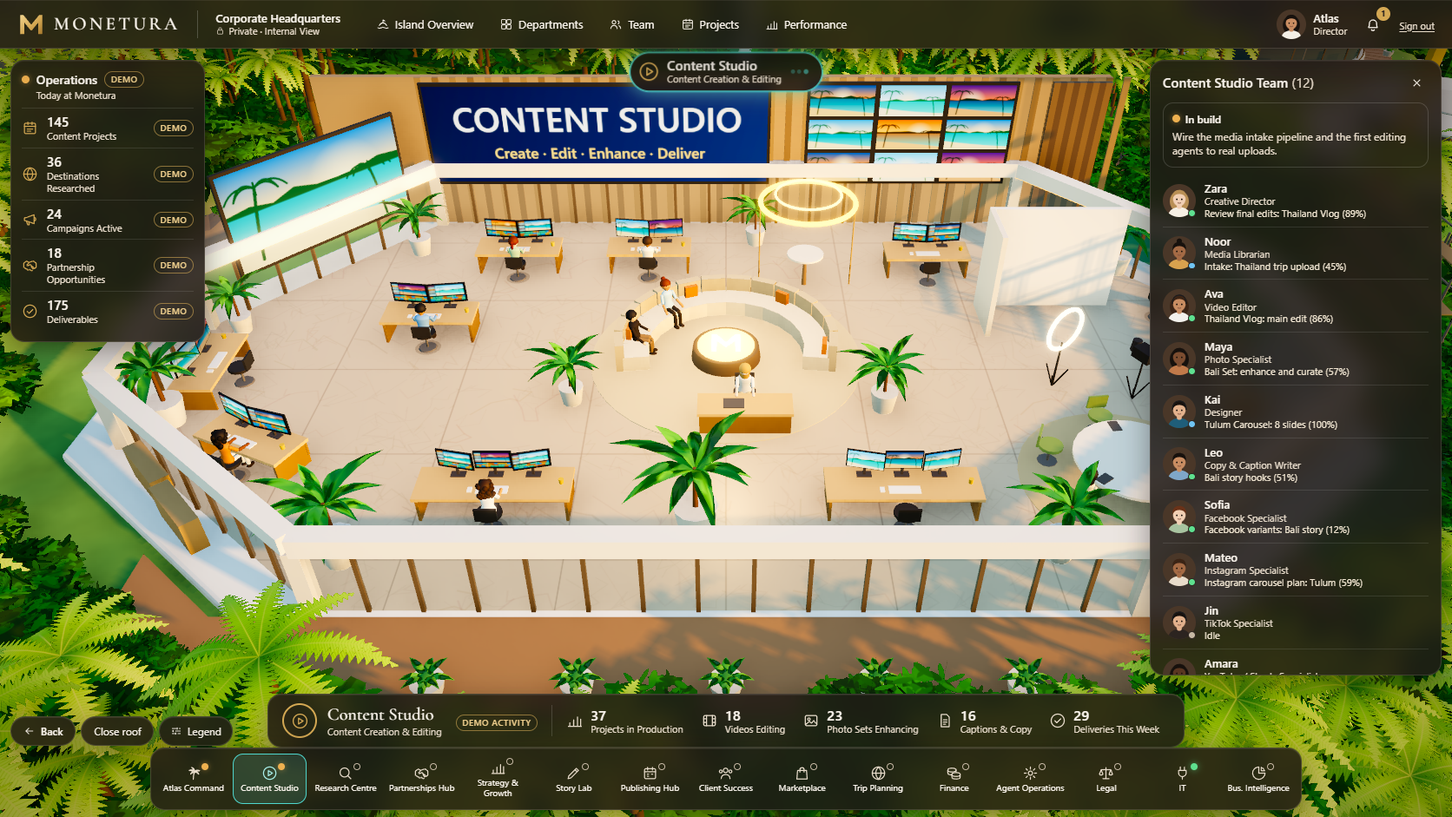
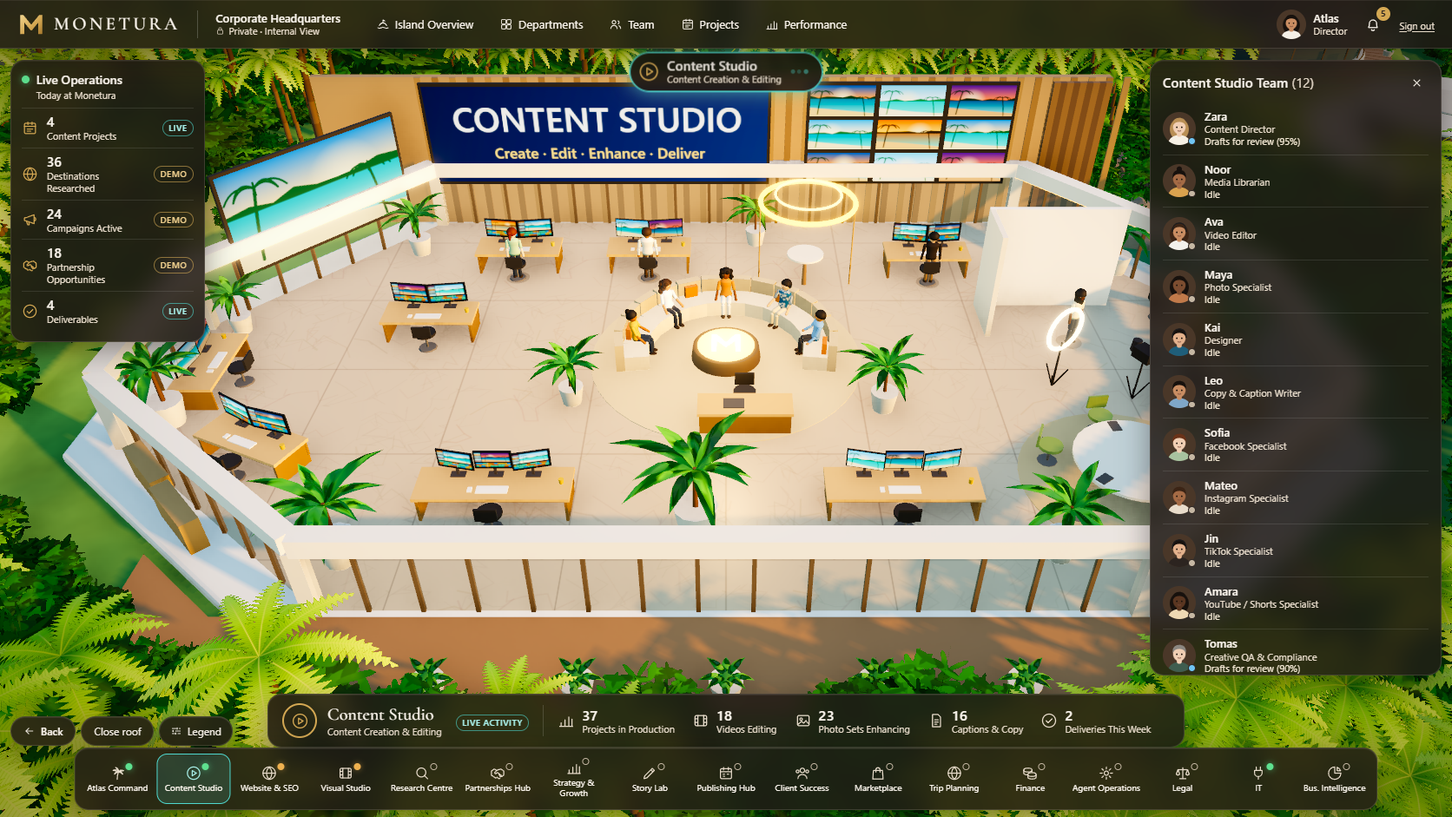
feat(hq): full Monetura org: Website & SEO, Visual Studio, Brand Guardian; Content Studio live
17 divisions. New round buildings placed on free land (checked by
scripts/check-placement.ts), web/visual interior specs in the existing style,
Script Writer in Story Lab. Content Studio is live with real events only.
Fix interiors staying mounted when deselected before the roof lifts.
Add scripts/check-ingest.ts; verify.ts covers 17 buildings.

diff --git a/apps/hq/src/registry.ts b/apps/hq/src/registry.ts
@@ -86,12 +86,13 @@ export const DIVISIONS: RegistryDivision[] = [
     icon: "palm",
     status: "live",
     description: `${ORCHESTRATOR_NAME} runs the launch plan, sets priorities, writes build prompts, routes work to departments and surfaces approvals.`,
-    nextUp: "Design Content Studio with Darryl and add it as Atlas's first department agent.",
+    nextUp: "Run Content Studio's weekly cycle and the two-gate review, then activate Strategy & Growth.",
     building: { x: 0, z: -96, elevation: 37, rotation: 0, scale: 1, footprint: "tiered", interior: "command" },
     fullyStaffed: true,
     agents: [
       agent("atlas", ORCHESTRATOR_NAME, "Director", "Director: runs the launch plan, daily briefing, sprint prompts and prospect conversation prep.", "Claude Opus", ["Company brain", "Task list", "Sprint prompts", "HQ event tool"], look(SKIN.c, HAIR.black, "long", "#f4efe6", "#3d4a5c", { feminine: true }), 0, "working"),
       agent("atlas-ops", "Remy", "Workflow Coordinator", "Keeps queues moving between departments and flags stuck handoffs.", "Claude Sonnet", ["Queue monitor", "Event log"], look(SKIN.b, HAIR.brown, "short", "#6f8fa8", "#e8dccb"), 1),
+      agent("brand-guardian", "Juno", "Brand Guardian", "Final brand gate for anything public from any division, before it reaches Darryl: voice, visual style, no earnings or tax claims, no fake people or numbers, disclosure, AI never shown as a real member or trip.", "Claude Sonnet", ["Brand voice guide", "Visual style guide", "Review queue"], look(SKIN.d, HAIR.black, "bun", "#e9dcc3", "#4a3728", { feminine: true }), 2, "idle"),
     ],
   },
   {
@@ -99,24 +100,56 @@ export const DIVISIONS: RegistryDivision[] = [
     name: "Content Studio",
     subtitle: "Content Creation & Editing",
     icon: "play",
-    status: "building",
-    description: "Turning travel experiences into high-performing content: intake, edit, design, copy, channel variants and creative QA.",
-    nextUp: "Wire the media intake pipeline and the first editing agents to real uploads.",
+    status: "live",
+    description: "Turns Monetura's brand, quote bank and Darryl's real footage into on-brand posts for every account. Drafts everything; schedules only what Darryl approves.",
+    nextUp: "Opening grid and the week of Nov 16 are waiting for Darryl's review; scheduling goes live once bundle.social is connected.",
     building: { x: 0, z: 62, elevation: 11, rotation: 0, scale: 1.3, footprint: "angular", interior: "studio" },
     fullyStaffed: true,
     agents: [
-      agent("creative-director", "Zara", "Creative Director", "Briefing, brand voice, task routing, quality gates and production priorities.", "Claude Opus", ["Brief builder", "Brand voice guide", "Review queue"], look(SKIN.a, HAIR.blonde, "long", "#f6f0e4", "#c9b48f", { feminine: true }), 0, "meeting"),
-      agent("media-librarian", "Noor", "Media Librarian", "Intake and tagging: location and subject tags, duplicates, metadata and permissions.", "Claude Haiku", ["S3 media store", "Vision tagger", "Rights checklist"], look(SKIN.d, HAIR.black, "bun", "#d9a24e", "#2f3a48", { feminine: true }), 1, "working"),
-      agent("video-editor", "Ava", "Video Editor", "Reels, shorts and travel montages: captions, versions and aspect ratios.", "Seedance", ["Timeline editor", "Subtitle engine", "Seedance"], look(SKIN.c, HAIR.brown, "curly", "#f3f1ec", "#27303c", { feminine: true, headphones: true }), 2, "working"),
-      agent("photo-specialist", "Maya", "Photo Specialist", "Selects, enhancement and curation of trip photo sets.", "OpenAI", ["Image enhancer", "Selects board"], look(SKIN.e, HAIR.black, "curly", "#c17a4a", "#efe6d6", { feminine: true }), 3, "working"),
-      agent("designer", "Kai", "Designer", "Thumbnails, carousels, branded layouts and landing page imagery.", "OpenAI", ["Layout templates", "Image generator"], look(SKIN.b, HAIR.black, "short", "#1f5e7a", "#d8c7a8", { print: "#f1e6cf", headphones: true }), 4, "working"),
-      agent("copywriter", "Leo", "Copy & Caption Writer", "Captions, hooks, scripts and travel stories in the Monetura voice.", "Claude Sonnet", ["Voice guide", "Caption library"], look(SKIN.c, HAIR.black, "short", "#7fa7c9", "#3a3a3a"), 5, "working"),
+      agent("creative-director", "Zara", "Content Director", "Plans the weekly calendar across all accounts, assigns the specialists, enforces the brand voice and hands finished batches to Atlas.", "Claude Sonnet", ["Brief builder", "Brand voice guide", "Review queue"], look(SKIN.a, HAIR.blonde, "long", "#f6f0e4", "#c9b48f", { feminine: true }), 0, "idle"),
+      agent("media-librarian", "Noor", "Media Librarian", "Planned: Intake and tagging: location and subject tags, duplicates, metadata and permissions.", "Claude Haiku", ["S3 media store", "Vision tagger", "Rights checklist"], look(SKIN.d, HAIR.black, "bun", "#d9a24e", "#2f3a48", { feminine: true }), 1, "idle"),
+      agent("video-editor", "Ava", "Video Editor", "Planned: edits real footage into reels, shorts and travel montages: captions, versions and aspect ratios.", "Seedance", ["Timeline editor", "Subtitle engine", "Seedance"], look(SKIN.c, HAIR.brown, "curly", "#f3f1ec", "#27303c", { feminine: true, headphones: true }), 2, "idle"),
+      agent("photo-specialist", "Maya", "Photo Specialist", "Planned: Selects, enhancement and curation of trip photo sets.", "OpenAI", ["Image enhancer", "Selects board"], look(SKIN.e, HAIR.black, "curly", "#c17a4a", "#efe6d6", { feminine: true }), 3, "idle"),
+      agent("designer", "Kai", "Designer", "On-brand quote cards, Story and Reel covers rendered from the brand template.", "Claude Sonnet", ["Layout templates", "Image generator"], look(SKIN.b, HAIR.black, "short", "#1f5e7a", "#d8c7a8", { print: "#f1e6cf", headphones: true }), 4, "idle"),
+      agent("copywriter", "Leo", "Copy & Caption Writer", "Planned: Captions, hooks, scripts and travel stories in the Monetura voice.", "Claude Sonnet", ["Voice guide", "Caption library"], look(SKIN.c, HAIR.black, "short", "#7fa7c9", "#3a3a3a"), 5, "idle"),
       agent("facebook-specialist", "Sofia", "Facebook Specialist", "Long-form posts, community framing and Facebook creative variants.", "Claude Sonnet", ["Channel format guide", "bundle.social drafts"], look(SKIN.a, HAIR.auburn, "ponytail", "#a8c3a0", "#2c3440", { feminine: true }), 6, "idle"),
-      agent("instagram-specialist", "Mateo", "Instagram Specialist", "Reels, carousels, hashtags and engagement strategy.", "Claude Sonnet", ["Channel format guide", "Hashtag research"], look(SKIN.d, HAIR.brown, "short", "#e8dccb", "#4a3728"), 7, "working"),
-      agent("tiktok-specialist", "Jin", "TikTok Specialist", "Short-form trends, hooks and casual voice variants.", "Claude Haiku", ["Trend watcher", "Hook library"], look(SKIN.b, HAIR.black, "short", "#2c2420", "#8b6e52", { headphones: true }), 8, "working"),
-      agent("youtube-specialist", "Amara", "YouTube / Shorts Specialist", "Long-form structure, Shorts cut-downs, titles and descriptions. Presents to camera at the ring light.", "ElevenLabs", ["ElevenLabs voice", "Thumbnail tests"], look(SKIN.f, HAIR.black, "long", "#efd9b4", "#2d3945", { feminine: true }), 9, "meeting"),
-      agent("creative-qa", "Tomas", "Creative QA & Compliance", "Checks quality, factual travel claims, rights and consent, platform rules.", "Claude Sonnet", ["Compliance checklist", "Claim checker"], look(SKIN.a, HAIR.grey, "short", "#3f5d4f", "#d9cbb2"), 10, "blocked"),
-      agent("publishing-coordinator", "Elena", "Publishing Coordinator", "Hands approved assets to the scheduling and distribution team.", "Claude Haiku", ["Publishing queue", "Calendar"], look(SKIN.c, HAIR.auburn, "bun", "#b9d3d8", "#3b3027", { feminine: true }), 11, "idle"),
+      agent("instagram-specialist", "Mateo", "Instagram Specialist", "Reels, carousels, hashtags and engagement strategy.", "Claude Sonnet", ["Channel format guide", "Hashtag research"], look(SKIN.d, HAIR.brown, "short", "#e8dccb", "#4a3728"), 7, "idle"),
+      agent("tiktok-specialist", "Jin", "TikTok Specialist", "Short-form trends, hooks and casual voice variants.", "Claude Sonnet", ["Trend watcher", "Hook library"], look(SKIN.b, HAIR.black, "short", "#2c2420", "#8b6e52", { headphones: true }), 8, "idle"),
+      agent("youtube-specialist", "Amara", "YouTube / Shorts Specialist", "Long-form structure, Shorts cut-downs, titles and descriptions.", "Claude Sonnet", ["ElevenLabs voice", "Thumbnail tests"], look(SKIN.f, HAIR.black, "long", "#efd9b4", "#2d3945", { feminine: true }), 9, "idle"),
+      agent("creative-qa", "Tomas", "Creative QA & Compliance", "First check on every social draft: voice, claims, disclosure, handles, platform limits.", "Claude Sonnet", ["Compliance checklist", "Claim checker"], look(SKIN.a, HAIR.grey, "short", "#3f5d4f", "#d9cbb2"), 10, "idle"),
+      agent("publishing-coordinator", "Elena", "Publishing Coordinator", "Planned: Hands approved assets to the scheduling and distribution team.", "Claude Haiku", ["Publishing queue", "Calendar"], look(SKIN.c, HAIR.auburn, "bun", "#b9d3d8", "#3b3027", { feminine: true }), 11, "idle"),
+    ],
+  },
+  {
+    id: "website-seo",
+    name: "Website & SEO",
+    subtitle: "Site, Search & Analytics",
+    icon: "globe",
+    status: "building",
+    description: "Owns monetura.com as a whole: content freshness, SEO, landing pages (waitlist first), publishing Story Lab's blogs, and analytics. Never codes; hands sprint prompts to IT & Integrations.",
+    nextUp: "Fix the live site copy that predates the Nov 6 to 8 decisions, then launch the waitlist landing page.",
+    building: { x: 130, z: -80, elevation: 13, rotation: -0.25, scale: 1, footprint: "round", interior: "web" },
+    agents: [
+      agent("website-lead", "Kira", "Website Lead", "Owns monetura.com end to end and routes site work.", "Claude Sonnet", ["Site audit", "Page briefs", "Sprint prompts"], look(SKIN.e, HAIR.black, "ponytail", "#d8c4a2", "#2f3a48", { feminine: true }), 0),
+      agent("seo-specialist", "Tariq", "SEO Specialist", "Keywords for the member profile, titles, meta, structure.", "Claude Sonnet", ["Site audit", "Keyword plan"], look(SKIN.d, HAIR.black, "short", "#8fa9b8", "#e0d2bb"), 1),
+      agent("web-content-editor", "Elodie", "Web Content Editor", "Keeps every page true to the brand; prepares blogs for publishing.", "Claude Sonnet", ["Voice guide", "Page briefs"], look(SKIN.a, HAIR.auburn, "bun", "#efe2cd", "#3c4752", { feminine: true }), 2),
+      agent("analytics-analyst", "Ben", "Analytics Analyst", "Visitors, sources and waitlist signups.", "Claude Haiku", ["Analytics", "Report builder"], look(SKIN.b, HAIR.brown, "short", "#a3b89a", "#3a3a3a"), 3),
+    ],
+  },
+  {
+    id: "visual-studio",
+    name: "Visual Studio",
+    subtitle: "Cinematic Images & Reels",
+    icon: "film",
+    status: "building",
+    description: "Cinematic AI images and short video for the website, social and reels, in one brand look. AI sets the mood; real footage carries the truth.",
+    nextUp: "Connect fal.ai and ElevenLabs, then make the first approved quote reel.",
+    building: { x: -68, z: -100, elevation: 22, rotation: 0.15, scale: 1, footprint: "round", interior: "visual" },
+    agents: [
+      agent("visual-studio-lead", "Selene", "Visual Studio Lead", "Guards the style guide and approves every prompt before spend.", "Claude Sonnet", ["Style guide", "Spend log"], look(SKIN.f, HAIR.black, "long", "#d4a853", "#2c2420", { feminine: true }), 0),
+      agent("image-producer", "Rafa", "Image Producer", "Cinematic stills in the brand look.", "fal.ai", ["Prompt library", "fal.ai"], look(SKIN.c, HAIR.black, "curly", "#c9d6c1", "#4a3728"), 1),
+      agent("video-producer", "Ilya", "Video Producer", "Seedance clips: one camera move per beat, calm pacing.", "Seedance", ["Seedance", "Prompt library"], look(SKIN.a, HAIR.blonde, "short", "#2c3440", "#d8c7a8", { headphones: true }), 2),
+      agent("reel-editor", "Noa", "Reel Editor", "Assembles 9:16 quote reels: clips, quote text, voice, music, end card.", "ElevenLabs", ["Reel engine", "ElevenLabs voice", "ffmpeg"], look(SKIN.d, HAIR.brown, "curly", "#f0dcc0", "#35404d", { feminine: true, headphones: true }), 3),
     ],
   },
   {
@@ -179,6 +212,7 @@ export const DIVISIONS: RegistryDivision[] = [
       agent("campaign-writer", "Theo", "Campaign Writer", "Campaign variations and email sequences.", "Claude Sonnet", ["Voice guide", "Resend drafts"], look(SKIN.b, HAIR.brown, "short", "#c7a77a", "#2f3a48"), 0),
       agent("blog-storyteller", "Aisha", "Blog & Long-Form Storyteller", "SEO blog posts and magazine-style travel stories.", "Claude Opus", ["Voice guide", "Web research"], look(SKIN.f, HAIR.black, "bun", "#efe2cd", "#3f5d4f", { feminine: true }), 1),
       agent("editorial-planner", "Lucas", "Editorial Planner", "Editorial calendar and creative briefs.", "Claude Haiku", ["Calendar", "Brief builder"], look(SKIN.a, HAIR.auburn, "short", "#9db7a8", "#3a3a3a"), 2),
+      agent("script-writer", "Wren", "Script Writer", "Teaser, reel and webinar scripts in the Monetura voice.", "Claude Sonnet", ["Voice guide", "Script templates"], look(SKIN.c, HAIR.auburn, "long", "#e4cfa9", "#2f3a48", { feminine: true }), 3),
     ],
   },
   {

diff --git a/apps/hq/scripts/check-placement.ts b/apps/hq/scripts/check-placement.ts
@@ -1,0 +1,65 @@
+import { ownerWorld } from "../src/server/projection";
+import { buildWorld, buildingRadius, HELIPAD, WATERFALLS, MARINA } from "../src/world/world";
+
+/**
+ * Placement check for new buildings: terrace clearance from every building, the
+ * helipad, waterfalls and docks; natural terrain is land; inside the camera bounds;
+ * no foreign path crosses the terrace and its own path avoids other terraces.
+ * Usage: pnpm exec tsx scripts/check-placement.ts [division-id ...]
+ */
+const NEW = process.argv.slice(2).length > 0 ? process.argv.slice(2) : ["website-seo", "visual-studio"];
+const all = ownerWorld().divisions;
+const without = all.filter((d) => !NEW.includes(d.id));
+const base = buildWorld(without, 340);
+const full = buildWorld(all, 340);
+
+let ok = true;
+for (const id of NEW) {
+  const d = all.find((x) => x.id === id)!;
+  const b = d.building;
+  const r = buildingRadius(b) + 6;
+  console.log(`\n== ${id} at (${b.x}, ${b.z}) r=${r}`);
+  // Camera boundary box from CameraRig: x [-300,300], z [-320,200].
+  const inBox = b.x - r > -300 && b.x + r < 300 && b.z - r > -320 && b.z + r < 200;
+  console.log(`inside camera bounds: ${inBox}`);
+  ok &&= inBox;
+  // Natural terrain under the footprint (before its own terrace).
+  const hs: number[] = [];
+  for (let a = 0; a < 16; a++) for (const rr of [0, r * 0.5, r, r + 10]) hs.push(base.sample(b.x + Math.cos(a) * rr, b.z + Math.sin(a) * rr));
+  const min = Math.min(...hs), max = Math.max(...hs), mean = hs.reduce((s, v) => s + v, 0) / hs.length;
+  console.log(`natural terrain: min ${min.toFixed(1)} max ${max.toFixed(1)} mean ${mean.toFixed(1)} (elevation set ${b.elevation})`);
+  ok &&= min > 2;
+  // Other buildings and the helipad.
+  const others = all.filter((o) => o.id !== id).map((o) => ({ id: o.id, x: o.building.x, z: o.building.z, r: buildingRadius(o.building) + 6 }));
+  others.push({ id: "helipad", x: HELIPAD.x, z: HELIPAD.z, r: HELIPAD.rx });
+  const gaps = others.map((o) => ({ id: o.id, gap: Math.hypot(o.x - b.x, o.z - b.z) - o.r - r })).sort((a, c) => a.gap - c.gap);
+  console.log(`nearest buildings (terrace gap): ${gaps.slice(0, 3).map((g) => `${g.id} ${g.gap.toFixed(1)}`).join(", ")}`);
+  ok &&= (gaps[0]?.gap ?? 0) > 6;
+  // Waterfalls and marina docks.
+  const wf = Math.min(...WATERFALLS.map((f) => Math.hypot(f.topX - b.x, f.topZ - b.z) - r));
+  const dock = Math.min(...MARINA.docks.map((k) => Math.hypot(k.x - b.x, k.z - b.z) - r));
+  console.log(`waterfall gap ${wf.toFixed(1)}, marina dock gap ${dock.toFixed(1)}`);
+  ok &&= wf > 12 && dock > 12;
+  // Paths that don't belong to this building must stay off its terrace.
+  let pathGap = Infinity;
+  for (const e of full.edges) {
+    if (e.a === id || e.b === id) continue;
+    for (const p of e.points) pathGap = Math.min(pathGap, Math.hypot(p.x - b.x, p.z - b.z) - r);
+  }
+  console.log(`closest foreign path to terrace edge: ${pathGap.toFixed(1)}`);
+  ok &&= pathGap > 3;
+  // Its own path must not cut through another building.
+  let ownCut = Infinity;
+  let cutBy = "";
+  for (const e of full.edges) {
+    if (e.a !== id && e.b !== id) continue;
+    for (const p of e.points) for (const o of others) {
+      const g = Math.hypot(p.x - o.x, p.z - o.z) - o.r;
+      if (g < ownCut) { ownCut = g; cutBy = o.id; }
+    }
+    console.log(`own path ${e.a} -> ${e.b}`);
+  }
+  console.log(`own path clearance from other terraces: ${ownCut.toFixed(1)} (${cutBy})`);
+  ok &&= ownCut > 0;
+}
+console.log(ok ? "\nPLACEMENT OK" : "\nPLACEMENT PROBLEM");

diff --git a/apps/hq/scripts/verify.ts b/apps/hq/scripts/verify.ts
@@ -168,7 +168,7 @@ async function main() {
 
   // Every building: fly in, roof lifts, Escape restores.
   const names = await page.getByRole("navigation", { name: "Departments" }).getByRole("button").evaluateAll((els) => els.map((e) => e.getAttribute("aria-label") ?? ""));
-  check("department bar lists every division", names.length === 15, `${names.length}`);
+  check("department bar lists every division", names.length === 17, `${names.length}`);
   for (const name of names) {
     await page.getByRole("navigation", { name: "Departments" }).getByRole("button", { name }).click();
     await wait(1100);
@@ -191,13 +191,21 @@ async function main() {
     });
   const before = await snapshot();
   check("Content Studio is fully staffed on screen", before.length === 12, `${before.length} figures: ${before.map((b) => b.id).join(", ")}`);
+
+  // Walking needs status changes. Content Studio is live (real events only, no demo),
+  // so watch a building division whose labelled demo activity still runs.
+  await page.keyboard.press("Escape");
+  await wait(1500);
+  await page.getByRole("navigation", { name: "Departments" }).getByRole("button", { name: /^Visual Studio/ }).click();
+  await wait(5000);
+  const walkBefore = await snapshot();
   let moved = 0;
   const seen = new Set<string>();
-  for (let i = 0; i < 16 && moved === 0; i++) {
+  for (let i = 0; i < 36 && moved === 0; i++) {
     await wait(2500);
     const now = await snapshot();
     for (const p of now) {
-      const old = before.find((b) => b.id === p.id);
+      const old = walkBefore.find((b) => b.id === p.id);
       if (old && Math.hypot(p.x - old.x, p.z - old.z) > 1) {
         moved++;
         seen.add(p.id);
@@ -207,6 +215,10 @@ async function main() {
   check("characters walk between spots when status changes", moved > 0, [...seen].join(", "));
   const statuses = new Set(Object.values((await ownerFeed(page)).agents).map((a) => a.status));
   check("agents show more than one status", statuses.size > 1, [...statuses].join(", "));
+  await page.keyboard.press("Escape");
+  await wait(1500);
+  await page.getByRole("navigation", { name: "Departments" }).getByRole("button", { name: /^Content Studio/ }).click();
+  await wait(3000);
 
   // Agent card.
   await page.getByRole("complementary", { name: /Content Studio team/ }).getByRole("button", { name: /Ava/ }).click();

diff --git a/apps/hq/scripts/check-ingest.ts b/apps/hq/scripts/check-ingest.ts
@@ -1,0 +1,57 @@
+/**
+ * Ingest allowlist check: one new agent per new division is accepted, and an unknown
+ * agent id (and an agent posted under the wrong division) is still rejected.
+ * Writes real rows, so run it against a server started WITHOUT DATABASE_URL (the
+ * in-memory store), never against production:
+ *   DATABASE_URL= pnpm exec next start --port 3013
+ *   HQ_BASE_URL=http://localhost:3013 pnpm exec tsx scripts/check-ingest.ts
+ * Reads HQ_INGEST_TOKEN from .env.local and never prints it.
+ */
+import { resolve } from "node:path";
+import dotenv from "dotenv";
+
+dotenv.config({ path: resolve(".env.local"), quiet: true });
+
+const BASE = process.env["HQ_BASE_URL"] ?? "http://localhost:3013";
+const TOKEN = process.env["HQ_INGEST_TOKEN"] ?? "";
+let failures = 0;
+
+async function post(agentId: string, divisionId: string): Promise<number> {
+  const r = await fetch(`${BASE}/api/hq/events/ingest`, {
+    method: "POST",
+    headers: { "Content-Type": "application/json", Authorization: `Bearer ${TOKEN}` },
+    body: JSON.stringify({
+      agentId,
+      divisionId,
+      taskId: `ingest-check-${agentId}`,
+      taskTitle: "Ingest allowlist check",
+      eventType: "task_started",
+      progress: 0,
+    }),
+  });
+  return r.status;
+}
+
+function check(name: string, ok: boolean, detail: string) {
+  console.log(`${ok ? "PASS" : "FAIL"}  ${name}  (${detail})`);
+  if (!ok) failures++;
+}
+
+async function main() {
+  if (TOKEN.length < 32) throw new Error("HQ_INGEST_TOKEN missing from .env.local");
+  const cases: [string, string, number][] = [
+    ["brand-guardian", "atlas-command", 201],
+    ["website-lead", "website-seo", 201],
+    ["visual-studio-lead", "visual-studio", 201],
+    ["script-writer", "story-lab", 201],
+    ["not-a-real-agent", "website-seo", 400],
+    ["reel-editor", "website-seo", 400],
+  ];
+  for (const [agent, division, want] of cases) {
+    const status = await post(agent, division);
+    check(`${agent} @ ${division} -> ${want}`, status === want, `status ${status}`);
+  }
+  process.exit(failures > 0 ? 1 : 0);
+}
+
+void main();

diff --git a/apps/hq/src/server/demo.ts b/apps/hq/src/server/demo.ts
@@ -70,6 +70,10 @@ const TASKS: Record<string, Template[]> = {
   "publishing-coordinator": [
     { title: "Schedule brief: Thailand week", stage: "Publishing", output: "Thailand schedule brief", handoffTo: "publishing-hub", needsApproval: true },
   ],
+  "website-lead": [{ title: "Page brief: waitlist landing", stage: "Production", output: "Waitlist page brief", handoffTo: "it-integrations", needsApproval: true }],
+  "seo-specialist": [{ title: "Title and meta review", stage: "Research", output: "Title and meta notes" }],
+  "visual-studio-lead": [{ title: "Style check: quote reel prompts", stage: "Review & approval", output: "Prompt set approved", needsApproval: true }],
+  "image-producer": [{ title: "Golden-hour stills, test set", stage: "Production", output: "Stills test set", handoffTo: "content-studio" }],
   atlas: [{ title: "Route new trip upload", stage: "Intake", output: "Workflow opened", handoffTo: "content-studio" }],
   "atlas-ops": [{ title: "Queue check across departments", stage: "Operations", output: "Queue report" }],
   "platform-builder": [{ title: "HQ platform release", stage: "Build", output: "HQ release notes" }],

diff --git a/apps/hq/src/scene/interiors.ts b/apps/hq/src/scene/interiors.ts
@@ -433,6 +433,28 @@ const INTERIOR_SPECS: Record<Exclude<InteriorKind, "studio">, RoundSpec> = {
       { texture: () => mapTexture(), w: 9, h: 5 },
     ],
   },
+  web: {
+    title: "Website & SEO",
+    sub: "Site, Search & Analytics",
+    desks: 4,
+    monitors: 2,
+    deskTexture: (i) => chartTexture(i),
+    wall: [
+      { texture: () => listBoardTexture("site-pages", "monetura.com", ["Home", "Our story", "Membership", "Waitlist", "Blog"], "#d4a853"), w: 11, h: 6.2 },
+      { texture: () => chartTexture(2), w: 10, h: 5.6 },
+    ],
+  },
+  visual: {
+    title: "Visual Studio",
+    sub: "Cinematic Images & Reels",
+    desks: 4,
+    monitors: 2,
+    deskTexture: (i) => travelTexture(i + 2),
+    wall: [
+      { texture: () => storyboardTexture(), w: 13, h: 5.6 },
+      { texture: () => travelTexture(4), w: 9, h: 5 },
+    ],
+  },
   office: {
     title: "Internal",
     sub: "Headquarters Operations",

diff --git a/apps/hq/src/config/counters.ts b/apps/hq/src/config/counters.ts
@@ -25,6 +25,8 @@ export const DIVISION_STATS: Record<string, DivisionStatConfig[]> = {
     { id: "captions", label: "Captions & Copy", icon: "doc", match: "progress", demoBaseline: 7 },
     { id: "deliveries", label: "Deliveries This Week", icon: "check", match: "completed", demoBaseline: 20 },
   ],
+  "website-seo": generic("Pages in Review", "Briefs Drafting", "Pages Updated"),
+  "visual-studio": generic("Prompts in Review", "Clips Rendering", "Assets Approved"),
   "research-centre": generic("Destinations in Queue", "Briefs Drafting", "Sources Verified"),
   "partnerships-hub": generic("Prospects", "Outreach Prepared", "Offers Verified"),
   "story-lab": generic("Briefs Open", "Scripts Drafting", "Stories Approved"),

diff --git a/apps/hq/src/scene/Building.tsx b/apps/hq/src/scene/Building.tsx
@@ -132,6 +132,9 @@ export function Building({ division, shadows }: Props) {
   useEffect(() => {
     // Interiors mount before the lift starts so nothing pops in.
     if (isOpen || isSelected) setInteriorMounted(true);
+    // Deselected before the roof ever lifted (e.g. Escape inside the roof delay):
+    // the lift animation never runs, so its p === 0 unmount below never fires.
+    else if (progress.current === 0) setInteriorMounted(false);
   }, [isOpen, isSelected]);
 
   useFrame((_, delta) => {

diff --git a/apps/hq/scripts/screenshots.ts b/apps/hq/scripts/screenshots.ts
@@ -123,6 +123,8 @@ async function main() {
     ["20-agent-operations", /^Agent Operations/],
     ["21-legal-compliance", /^Legal/],
     ["22-business-intelligence", /^Business Intelligence/],
+    ["23-website-seo", /^Website & SEO/],
+    ["24-visual-studio", /^Visual Studio/],
   ] as const) {
     if (!want(file)) continue;
     await focus(re);

diff --git a/apps/hq/src/types.ts b/apps/hq/src/types.ts
@@ -15,6 +15,8 @@ export type InteriorKind =
   | "support"
   | "marketplace"
   | "trip"
+  | "web"
+  | "visual"
   | "office";
 
 export type IconName =

diff --git a/HQ-DECISIONS.md b/HQ-DECISIONS.md
@@ -112,6 +112,19 @@ No `.env` file in either folder was opened.
 - **Live divisions get no demo activity.** "Real events take priority for Atlas Command" was generalized: any `live` division shows only real rows, so a Live label can never sit next to staged work. This also quietens IT & Integrations' demo tasks until it reports real build events.
 - **Remy (atlas-ops)** stays in the registry, idle, with no real activity yet. Atlas does the coordination work itself for now.
 
+### Full Monetura org on the island (Nov 8, 2026)
+Sprint `monetura-hq/sprints/2026-11-08-full-org-island.md` (replaces `2026-11-08-content-studio-live.md`). 17 divisions.
+- **Registry:** Brand Guardian Juno added to Atlas Command (desk 2, idle). Content Studio is `live` with the new description and nextUp; every id, name, appearance and homeDesk kept; Zara is now Content Director; models updated as specified; the five unbuilt agents start "Planned: " and Video Editor's specialty now says real footage (AI video belongs to Visual Studio); all 12 default to idle. Story Lab gains Script Writer Wren (desk 3). Website & SEO and Visual Studio added with their four agents each, status `building`. Every other division's status is unchanged.
+- **Icons:** Website & SEO uses `globe` (no separate web icon; `search` was the alternative, and both are already used by Trip Planning and Research Centre respectively). Visual Studio uses `film`.
+- **Interiors:** the `studio` interior is the big angular Content Studio room (its sign reads "Content Studio") and doesn't fit a round footprint, and every round spec carries its own title board, so reusing e.g. `research` would label the building "Research Centre". Added two round-room specs, `web` and `visual`, built by the same `roundRoom` code from existing textures (chart, list board, storyboard, travel). Same 3D style, correct signage, 4 desks each.
+- **Placement:** both use the standard `round` footprint, scale 1. Website & SEO at (130, -80), elevation 13, between Strategy & Growth, Trip Planning and Story Lab, on the path to hub-far-east. Visual Studio at (-68, -100), elevation 22, on the west flank of Atlas's hill. Found by a grid search over the island and checked by the new `scripts/check-placement.ts` (rerunnable): terrace gaps ≥ 6.3 to every building (conservative circles), no foreign path within 7.6 of a terrace, own paths ≥ 10 clear of other terraces, natural terrain is land, waterfalls and docks far away, both inside the camera's boundary box. Paths, terraces and palm keep-outs derive from the registry, so no world data changed.
+- **Stats and demo:** generic stats strips for the two new divisions. They're `building`, so they get labelled demo activity like the other building divisions; four short demo templates were added for their staffed agents (Content Studio was the only building division, and with it live the generator would otherwise have had no one to staff). Content Studio now gets no demo tasks.
+- **Bug fixed (surfaced by the new buildings):** `Building.tsx` mounted a building's interior on select but only unmounted it when the roof animation reached 0. Deselecting inside the 800 ms roof delay (slow frames while new interiors compile) left the interior, and its figures, mounted forever. It now unmounts on deselect when the roof never moved.
+- **verify.ts:** the department count is 17. The walking check now watches Visual Studio, because Content Studio is live and its agents only change status on real events.
+- Ingest endpoint auth and rate limits untouched; the allowlist comes from the registry, so the new ids are accepted automatically.
+
+**Verified (Nov 8, 2026):** typecheck 0, lint 0, build 0. `scripts/check-ingest.ts` against a server started without `DATABASE_URL` (in-memory store, `persisted: false`, so no test rows reached the database): brand-guardian, website-lead, visual-studio-lead and script-writer → 201; an unknown id → 400; reel-editor under website-seo → 400. `check-public-bundle.ts` PASS (32 documents, 254 private strings). `verify.ts` 70/70 PASS (all 17 roofs, 12 Content Studio figures, walking, tour). Screenshots `01`–`04`, `07`, `10`, `15`, `23-website-seo`, `24-visual-studio` in `apps/hq/screenshots/`.
+
 ## Approvals downstream stub
 
 `recordApproval` in `apps/hq/src/server/store.ts` records the approval row and a decision event, then logs that the downstream action is stubbed, at `TODO(hq-downstream)`. When a publishing or sending workflow exists behind an approval gate, trigger it there. Nothing external happens today.
